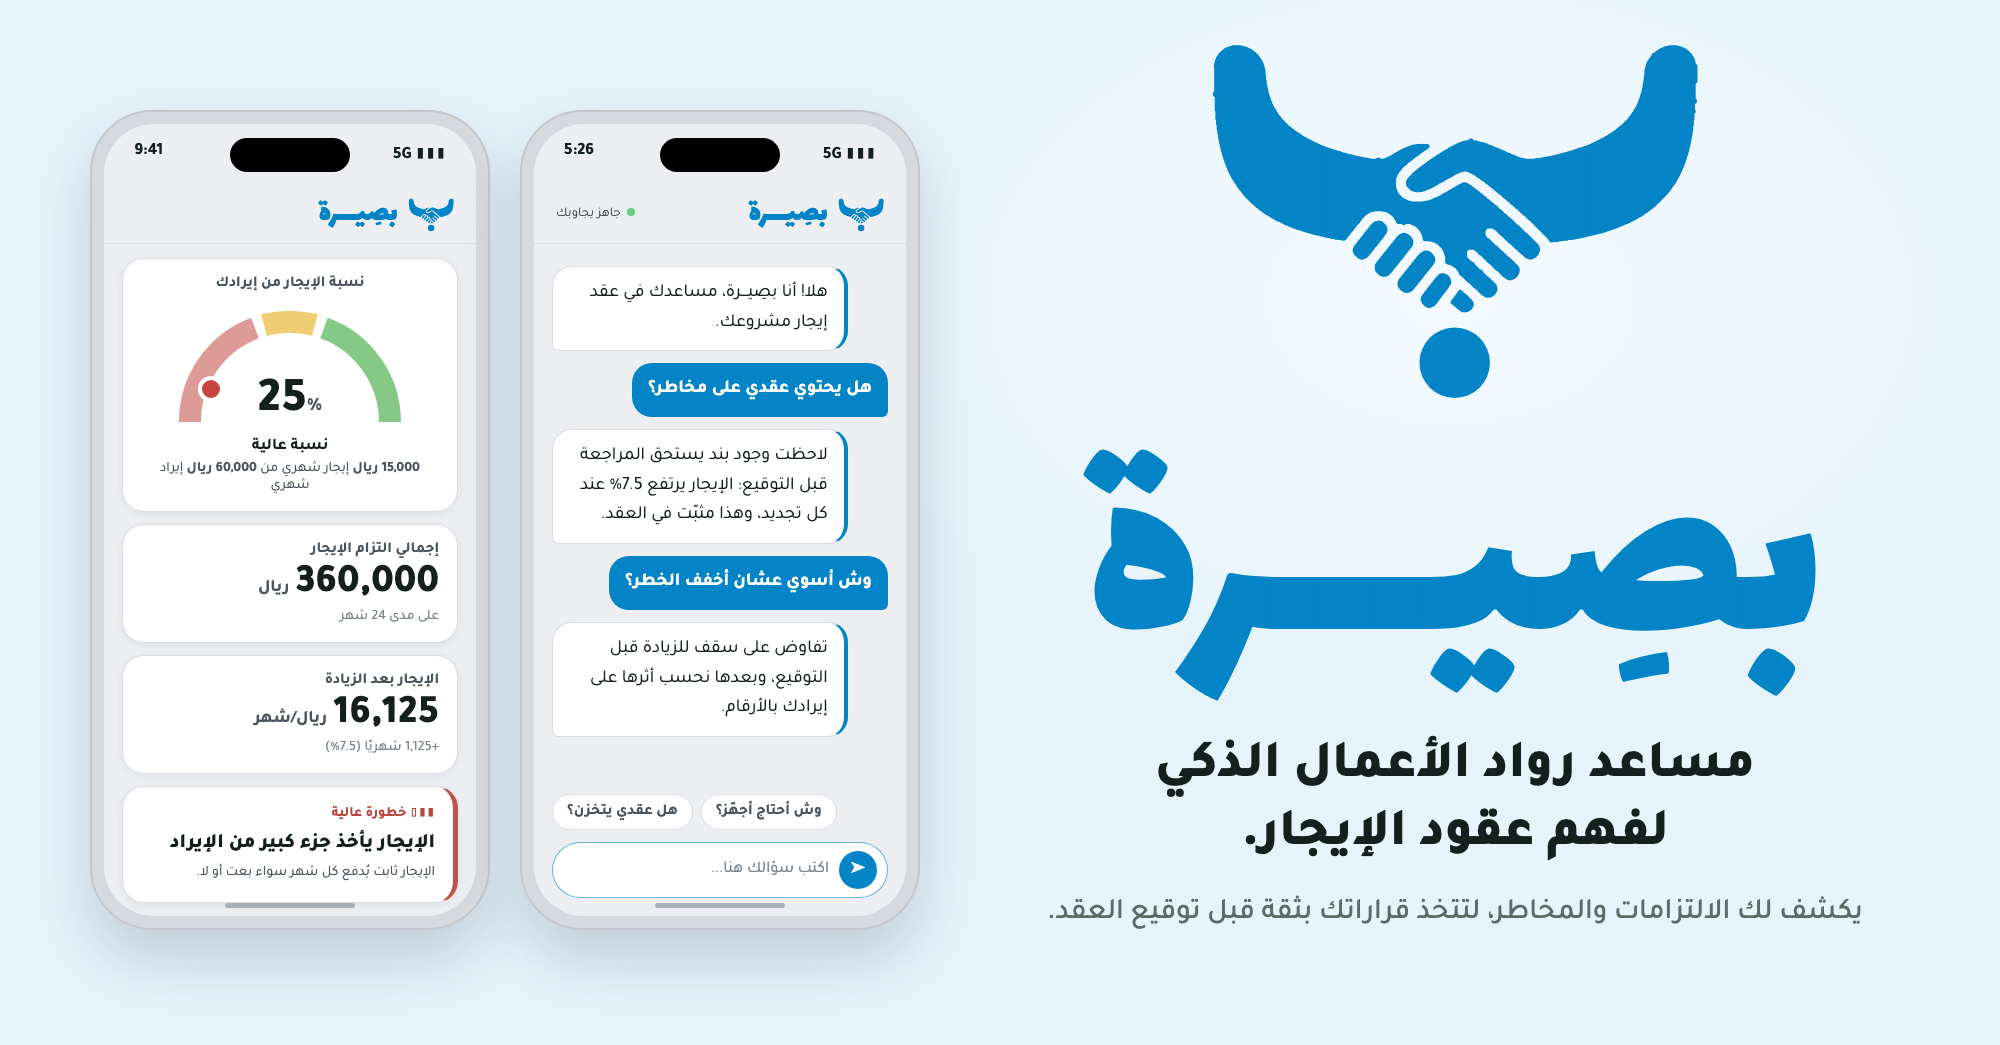
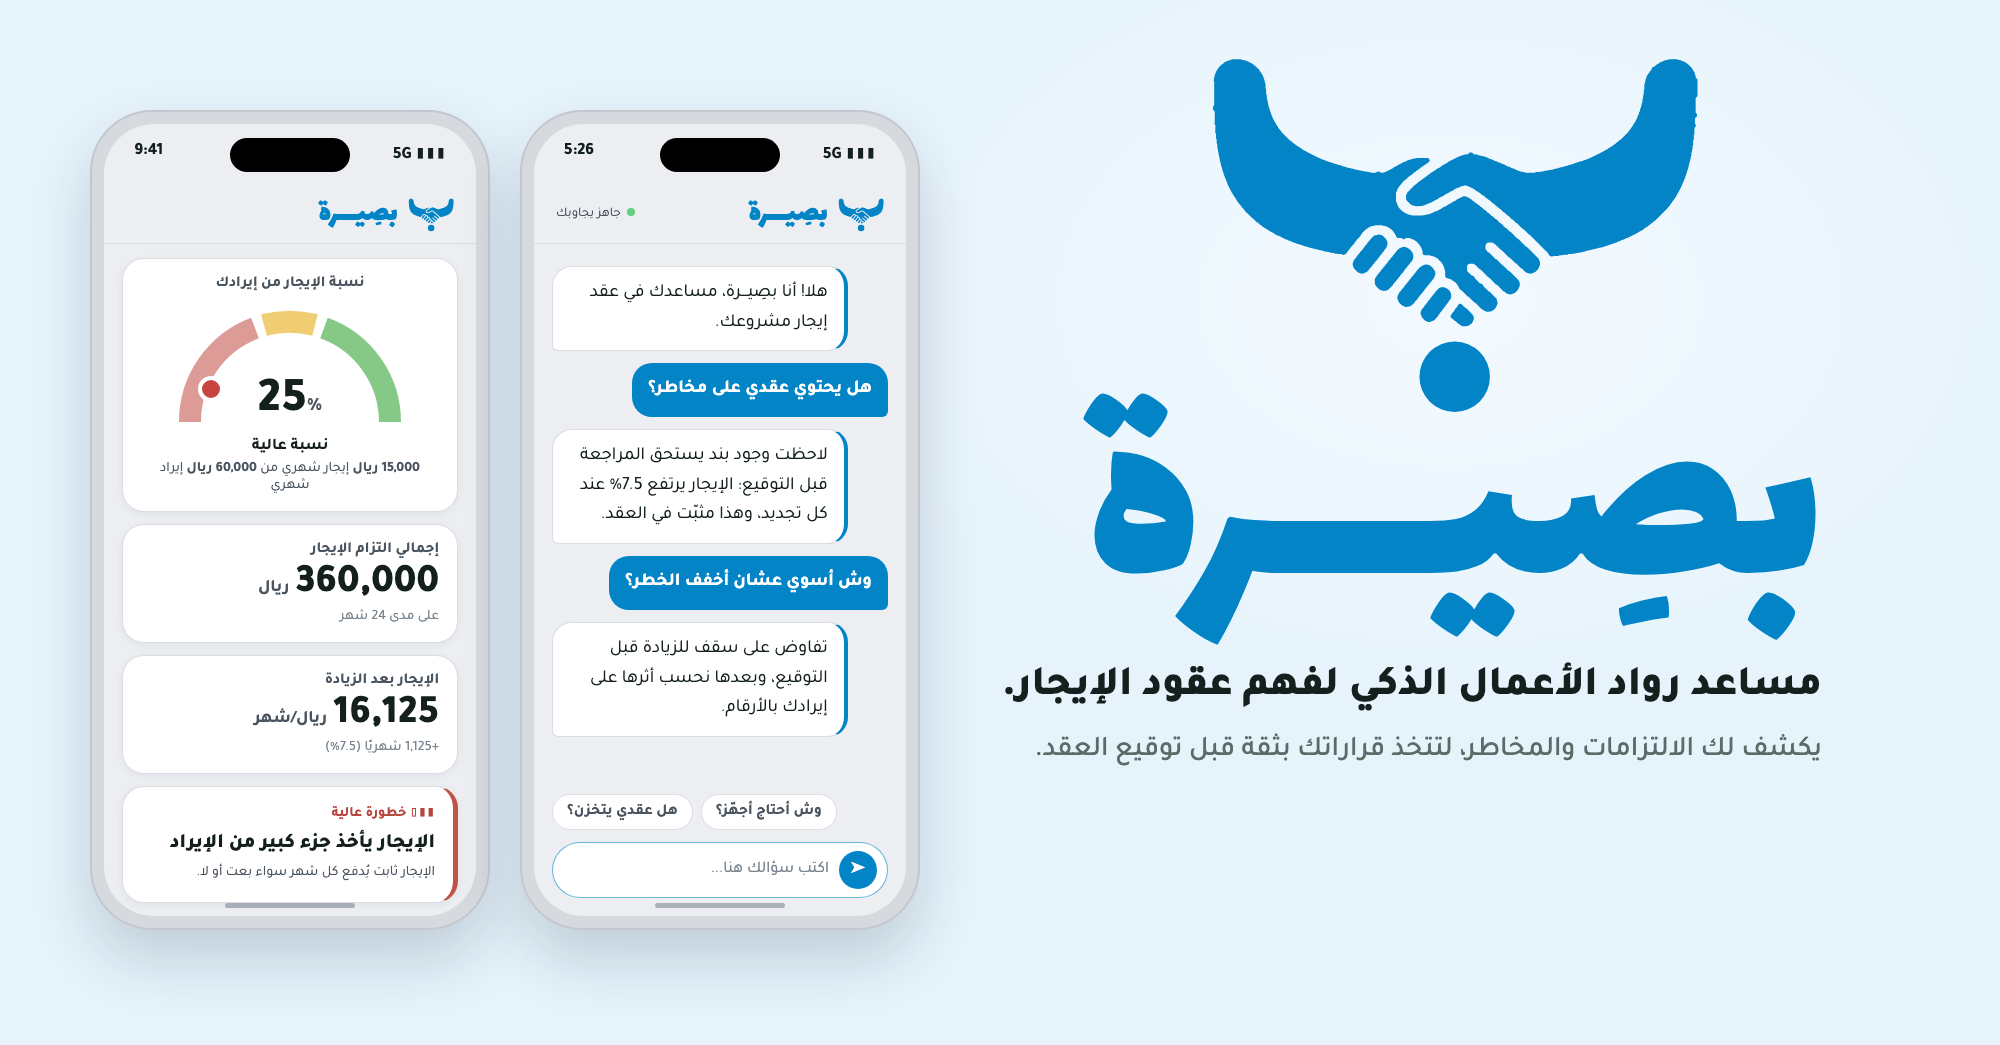
البوستر: الاسم أعلى شوي، والتعريف بسطر واحد تحت بداية الاسم (بصِيـــ)

diff --git a/docs/poster/basira-poster.html b/docs/poster/basira-poster.html
@@ -9,11 +9,11 @@ html, body { width: 2000px; height: 1045px; background: var(--mint); font-family
 .poster { position: relative; width: 2000px; height: 1045px; background: radial-gradient(900px 600px at 1450px 300px, var(--glow), transparent 70%), var(--mint); }
 
 /* ---- الجهة اليمنى: الهوية ---- */
-.logo { position:absolute; left: 1205px; top: 38px; width: 500px; height: auto; color: var(--teal); }
+.logo { position:absolute; left: 1205px; top: 52px; width: 500px; height: auto; color: var(--teal); }
 .logo-s { color: var(--brand); height: 34px; width: auto; }
-.word { position:absolute; right: 70px; left: 980px; top: 428px; text-align: center; font-family: "Lalezar", sans-serif; font-size: 280px; line-height: 1.05; color: var(--teal); letter-spacing: 0; }
-.tag { position:absolute; right: 70px; left: 980px; top: 736px; text-align:center; font-weight: 800; font-size: 52px; color: var(--ink); line-height: 1.3; }
-.sub { position:absolute; right: 70px; left: 980px; top: 892px; text-align:center; white-space: nowrap; font-weight: 500; font-size: 29px; color: #5b6b68; line-height: 1.5; }
+.word { position:absolute; right: 70px; left: 980px; top: 372px; text-align: center; font-family: "Lalezar", sans-serif; font-size: 280px; line-height: 1.05; color: var(--teal); letter-spacing: 0; }
+.tag { position:absolute; right: 178px; left: 940px; top: 662px; text-align:right; white-space: nowrap; font-weight: 800; font-size: 41px; color: var(--ink); line-height: 1.3; }
+.sub { position:absolute; right: 178px; left: 940px; top: 730px; text-align:right; white-space: nowrap; font-weight: 500; font-size: 28px; color: #5b6b68; line-height: 1.5; }
 
 /* ---- الجوالات ---- */
 .phone { position:absolute; width: 400px; height: 820px; border-radius: 62px; background: #d6dadf; padding: 14px; box-shadow: 0 30px 60px rgba(20,40,60,.18), 0 0 0 2px #c3c8ce inset; }
@@ -65,7 +65,7 @@ html, body { width: 2000px; height: 1045px; background: var(--mint); font-family
 </svg>
 
   <div class="word">بصِيـــرة</div>
-  <div class="tag">مساعد رواد الأعمال الذكي<br>لفهم عقود الإيجار.</div>
+  <div class="tag">مساعد رواد الأعمال الذكي لفهم عقود الإيجار.</div>
   <div class="sub">يكشف لك الالتزامات والمخاطر، لتتخذ قراراتك بثقة قبل توقيع العقد.</div>
 
   <!-- جوال 1: التقرير -->

diff --git a/docs/poster/build.py b/docs/poster/build.py
@@ -16,11 +16,11 @@ html, body { width: 2000px; height: 1045px; background: var(--mint); font-family
 .poster { position: relative; width: 2000px; height: 1045px; background: radial-gradient(900px 600px at 1450px 300px, var(--glow), transparent 70%), var(--mint); }
 
 /* ---- الجهة اليمنى: الهوية ---- */
-.logo { position:absolute; left: 1205px; top: 38px; width: 500px; height: auto; color: var(--teal); }
+.logo { position:absolute; left: 1205px; top: 52px; width: 500px; height: auto; color: var(--teal); }
 .logo-s { color: var(--brand); height: 34px; width: auto; }
-.word { position:absolute; right: 70px; left: 980px; top: 428px; text-align: center; font-family: "Lalezar", sans-serif; font-size: 280px; line-height: 1.05; color: var(--teal); letter-spacing: 0; }
-.tag { position:absolute; right: 70px; left: 980px; top: 736px; text-align:center; font-weight: 800; font-size: 52px; color: var(--ink); line-height: 1.3; }
-.sub { position:absolute; right: 70px; left: 980px; top: 892px; text-align:center; white-space: nowrap; font-weight: 500; font-size: 29px; color: #5b6b68; line-height: 1.5; }
+.word { position:absolute; right: 70px; left: 980px; top: 372px; text-align: center; font-family: "Lalezar", sans-serif; font-size: 280px; line-height: 1.05; color: var(--teal); letter-spacing: 0; }
+.tag { position:absolute; right: 178px; left: 940px; top: 662px; text-align:right; white-space: nowrap; font-weight: 800; font-size: 41px; color: var(--ink); line-height: 1.3; }
+.sub { position:absolute; right: 178px; left: 940px; top: 730px; text-align:right; white-space: nowrap; font-weight: 500; font-size: 28px; color: #5b6b68; line-height: 1.5; }
 
 /* ---- الجوالات ---- */
 .phone { position:absolute; width: 400px; height: 820px; border-radius: 62px; background: #d6dadf; padding: 14px; box-shadow: 0 30px 60px rgba(20,40,60,.18), 0 0 0 2px #c3c8ce inset; }
@@ -64,7 +64,7 @@ html, body { width: 2000px; height: 1045px; background: var(--mint); font-family
 
   __LOGO__
   <div class="word">بصِيـــرة</div>
-  <div class="tag">مساعد رواد الأعمال الذكي<br>لفهم عقود الإيجار.</div>
+  <div class="tag">مساعد رواد الأعمال الذكي لفهم عقود الإيجار.</div>
   <div class="sub">يكشف لك الالتزامات والمخاطر، لتتخذ قراراتك بثقة قبل توقيع العقد.</div>
 
   <!-- جوال 1: التقرير -->
